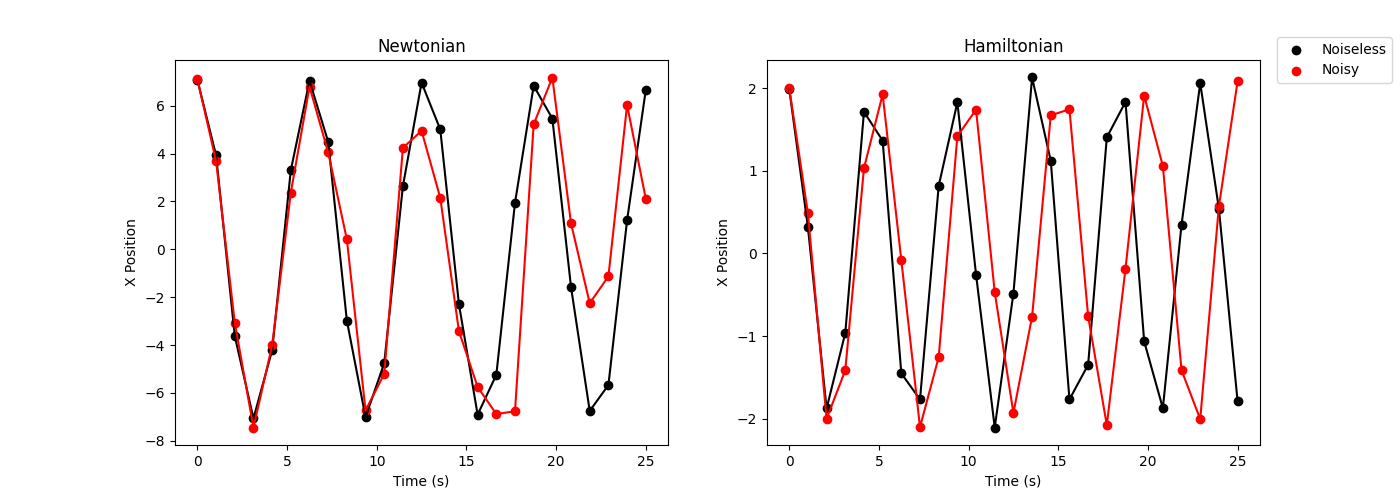
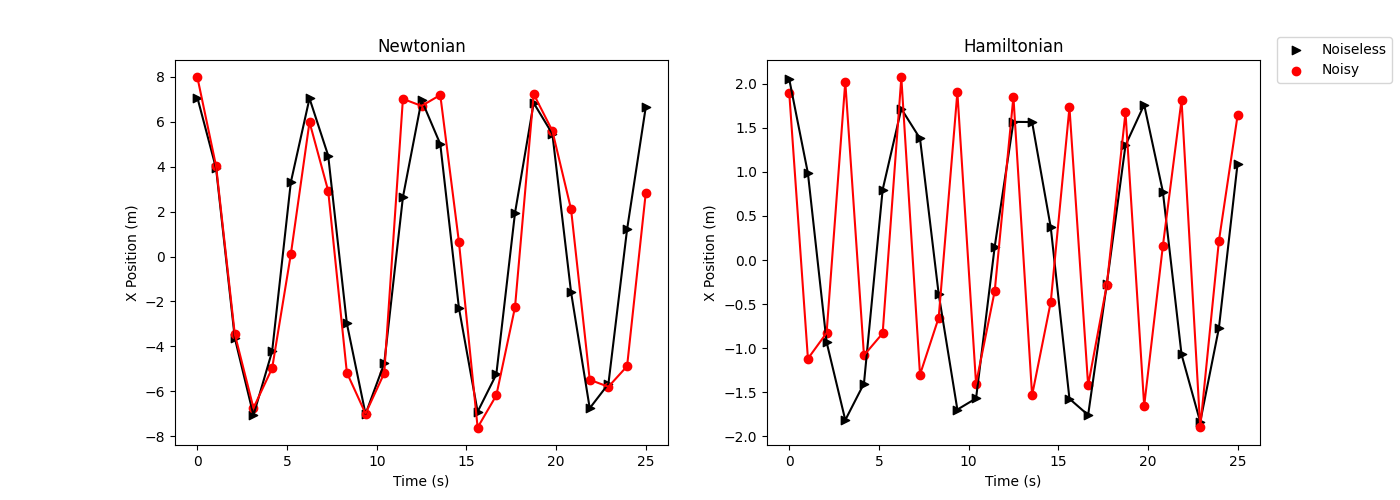
Review comments on figure captions

diff --git a/paper/figures/code/example_pendulums.py b/paper/figures/code/example_pendulums.py
@@ -26,7 +26,9 @@ pendulum = Pendulum(
 # Plot that against the time and with scatter and line options
 pendulum_noiseless = pendulum.create_object(time, noiseless=True)
 subplots[0].plot(time, pendulum_noiseless, color="black")
-subplots[0].scatter(time, pendulum_noiseless, color="black", label="Noiseless")
+subplots[0].scatter(
+    time, pendulum_noiseless, color="black", label="Noiseless", marker=">"
+)
 
 # Use the noiseless=False to do the same with a noiseless pendulum
 pendulum_noisy = pendulum.create_object(time, noiseless=False)
@@ -46,22 +48,22 @@ pendulum = HamiltonianPendulum(
     },
 )
 
-# Cacluate the pendulum positions and engeries
+# Calculate the pendulum positions and energies
 pendulum_data = pendulum.create_object(time)
 
 # Plot the line and scatterplot versions of the position wrt time
 subplots[1].plot(pendulum_data[4], pendulum_data[0], color="black")
 subplots[1].scatter(
-    pendulum_data[4], pendulum_data[0], color="black", label="Noiseless"
+    pendulum_data[4], pendulum_data[0], color="black", label="Noiseless", marker=">"
 )
 
-# Repeat the process with the noisely pendulum
+# Repeat the process with the noisy pendulum
 pendulum = HamiltonianPendulum(
     pendulum_arm_length=10.0,
     starting_angle_radians=np.pi / 4,
     acceleration_due_to_gravity=9.8,
     noise_std_percent={
-        "pendulum_arm_length": 0.2,
+        "pendulum_arm_length": 0.1,
         "starting_angle_radians": 0.0,
         "acceleration_due_to_gravity": 0.0,
     },
@@ -81,9 +83,9 @@ for plot in subplots.ravel():
     # plot.set(xticks=[], yticks=[])
 
     plot.set_xlabel("Time (s)")
-    plot.set_ylabel("X Position")
+    plot.set_ylabel("X Position (m)")
 
 # Assign legend location
 subplots[1].legend(loc="center left", bbox_to_anchor=(1.02, 1))
 
-plt.savefig("../pendulums.png")
+plt.savefig("./pendulums.png")

diff --git a/paper/figures/code/example_objects.py b/paper/figures/code/example_objects.py
@@ -1,5 +1,4 @@
 from deepbench.image import SkyImage, ShapeImage
-from deepbench.physics_object import HamiltonianPendulum, Pendulum
 import matplotlib.pyplot as plt
 import numpy as np
 

diff --git a/paper/paper.md b/paper/paper.md
@@ -10,11 +10,11 @@ authors:
   - name: M. Voetberg
     orcid: 0009-0005-2715-4709
     equal-contrib: true
-    affiliation: "1" 
-  - name: Ashia Livaudais 
+    affiliation: "1"
+  - name: Ashia Livaudais
     orcid: 0000-0003-3734-335X
     equal-contrib: true
-    affiliation: "1" 
+    affiliation: "1"
   - name: Becky Nevin
     orcid: 0000-0003-1056-8401
     equal-contrib: false
@@ -49,7 +49,7 @@ There are multiple open problems and issues that are critical for the machine le
 
 The physical sciences community lacks sufficient datasets and software as benchmarks for the development of statistical and machine learning models.  In particular, there currently does not exist simulation software that generates data underpinned by physical principles and that satisfies the following criteria:
 
-* multi-domain 
+* multi-domain
 * multi-purpose
 * fast
 * reproducible
@@ -60,13 +60,13 @@ The physical sciences community lacks sufficient datasets and software as benchm
 
 ## Related Work
 
-There are many benchmarks -- datasets and simulation software -- widely used for model building in machine learning, statistics, and the physical sciences. 
+There are many benchmarks -- datasets and simulation software -- widely used for model building in machine learning, statistics, and the physical sciences.
 First, benchmark datasets of natural images include MNIST `[@dengMnistDatabaseHandwritten2012c]`, CIFAR `[@krizhevskyCIFAR10CanadianInstitute2017a]`, Imagenet `[@russakovskyImageNetLargeScale2015a]`. Second, there are several large astronomical observation datasets -- CfA Redshift Survey `[@huchraSurveyGalaxyRedshifts1983]`, Sloan Digital Sky Survey `[@yorkSloanDigitalSky2000]`, and Dark Energy Survey `[@abbottDARKENERGYSURVEY]`. Third, many n-body cosmology simulation data sets serve as benchmarks -- e.g., Millennium `[@springelCosmologicalSimulationCode2005]`, Illustris `[@vogelsbergerIntroducingIllustrisProject2014b]`, EAGLE `[@schayeEAGLEProjectSimulating2015]`, Coyote `[@heitmannCoyoteUniversePrecision2010]`, Bolshoi `[@klypinDARKMATTERHALOS2011]`, CAMELS `[@villaescusa-navarroCAMELSProjectCosmology2021]`, Quijote `[@villaescusa-navarroQuijoteSimulations2020]`. Fourth, there have been multiple astronomy data set challenges that can be considered benchmarks for analysis comparison -- e.g., PLAsTiCC `[@hlozekResultsPhotometricLSST2020a]`, The Great08 Challenge `[@bridleHandbookGREAT08Challenge2009a]`, and the Strong Gravitational Lens Challenge `[@metcalfStrongGravitationalLens2019c]`.  Fifth, there are multiple software that generate simulated data for astronomy and cosmology -- e.g., astropy `[@theastropycollaborationAstropyCommunityPython2013a]`, galsim `[@roweGalSimModularGalaxy2015]`, lenstronomy `[@birrerLenstronomyMultipurposeGravitational2018a]`, deeplenstronomy `[@morganDeeplenstronomyDatasetSimulation2021a]`, CAMB `[@CAMBInfo, @lewisEfficientComputationCMB2000]`, Pixell `[@WelcomePixellDocumentation]`, SOXs `[@SOXSSimulatedObservations]`. Finally, particle physics projects use standard codebases for simulations -- e.g., GEANT `[@piaGeant4ScientificLiterature2009]`, GENIE `[@andreopoulosGENIENeutrinoMonte2015]`, and PYTHIA `[@sjostrandPYTHIAEventGenerator2020]`. These simulations span wide ranges in speed, code complexity, and physical fidelity and detail. Unfortunately, these data and software lack a combination of critical features, including mechanistic models, speed, reproducibility, which are needed for more fundamental studies of statistical and machine learning models. The work in this paper is most closely related to SHAPES `[@wuVisualQuestionAnswering2016a]` because that work also uses collections of geometric objects with varying levels of complexity as a benchmark.
 
 
 
 
-# DeepBench Software 
+# DeepBench Software
 
 The **DeepBench** software simulates data for analysis tasks that require precise numerical calculations. First, the simulation models are fundamentally mechanistic -- based on relatively simple analytic mathematical expressions, which are physically meaningful. This means that for each model, the number of input parameters that determine a simulation output is small (<$10$ for most models). These elements make the software fast and the outputs interpretable -- conceptually and mathematically relatable to the inputs. Second, **DeepBench** also includes methods to precisely prescribe noise for inputs, which are propagated to outputs. This permits studies and the development of statistical inference models that require uncertainty quantification, which is a significant challenge in modern machine learning research. Third, the software framework includes features that permit a high degree of reproducibility: e.g., random seeds at every key stage of input, a unique identification tag for each simulation run, tracking and storage of metadata (including input parameters) and the related outputs. Fourth, the primary user interface is a YAML configuration file, which allows the user to specify every aspect of the simulation -- e.g., types of objects, numbers of objects, noise type, and number of classes. This feature -- which is especially useful when building and studying complex models like deep learning neural networks -- permits the user to incrementally decrease or increase the complexity of the simulation with a high level of granularity.
 
@@ -83,25 +83,25 @@ The **DeepBench** software simulates data for analysis tasks that require precis
 * Readily extensible to new physics and outputs
 
 
-# Primary Modules 
+# Primary Modules
 
-* Geometry objects: two-dimensional images generated with `matplotlib` `[@hunterMatplotlib2DGraphics2007b]`. The shapes include $N$-sided polygons, arcs, straight lines, and ellipses. They are solid, filled or unfilled two-dimensional shapes with edges of variable thickness.  
-* Physics objects: one-dimensional profiles for two types of implementations of pendulum dynamics: one using Newtonian physics, the other using Hamiltonian. 
-* Astronomy objects: two-dimensional images generated based on radial profiles of typical astronomical objects. The star object is created using the Moffat distribution provided by the AstroPy `[@theastropycollaborationAstropyCommunityPython2013a]` library. The spiral galaxy object is created with the function used to produce a logarithmic spiral `[@ringermacherNewFormulaDescribing2009a]`. The elliptical Galaxy object is created using the Sérsic profile provided by the AstroPy library. Two-dimensional models are representations of astronomical objects commonly found in data sets used for galaxy morphology classification. 
-* Image: two-dimensional images  that are combinations and/or concatenations of Geometry or Astronomy objects. The combined images are within `matplotlib` meshgrid objects. Sky images are composed of any combination of Astronomy objects, while geometric images comprise individual geometric shape objects. 
-* Collection: Provides a framework for producing module images or objects at once and storing all parameters that were included in their generation, including exact noise levels, object hyper-parameters, and non-specified defaults. 
+* Geometry objects: two-dimensional images generated with `matplotlib` `[@hunterMatplotlib2DGraphics2007b]`. The shapes include $N$-sided polygons, arcs, straight lines, and ellipses. They are solid, filled or unfilled two-dimensional shapes with edges of variable thickness.
+* Physics objects: one-dimensional profiles for two types of implementations of pendulum dynamics: one using Newtonian physics, the other using Hamiltonian.
+* Astronomy objects: two-dimensional images generated based on radial profiles of typical astronomical objects. The star object is created using the Moffat distribution provided by the AstroPy `[@theastropycollaborationAstropyCommunityPython2013a]` library. The spiral galaxy object is created with the function used to produce a logarithmic spiral `[@ringermacherNewFormulaDescribing2009a]`. The elliptical Galaxy object is created using the Sérsic profile provided by the AstroPy library. Two-dimensional models are representations of astronomical objects commonly found in data sets used for galaxy morphology classification.
+* Image: two-dimensional images  that are combinations and/or concatenations of Geometry or Astronomy objects. The combined images are within `matplotlib` meshgrid objects. Sky images are composed of any combination of Astronomy objects, while geometric images comprise individual geometric shape objects.
+* Collection: Provides a framework for producing module images or objects at once and storing all parameters that were included in their generation, including exact noise levels, object hyper-parameters, and non-specified defaults.
 
 
 All objects also come with the option to add noise to each object. For Physics objects -- i.e., the pendulum -- the user may add Gaussian noise to parameters: initial angle $\theta_0$, the pendulum length $L$, the gravitational acceleration $g$, the planet properties $\Phi = (M/r^2)$, and Newton's gravity constant $G$. Note that $g = G * \Phi = G * M/r^2$: all parameters in that relationship can receive noise. For Astronomy and Geometry Objects, which are images, the user can add Poisson or Gaussian noise to the output images. Finally, the user can regenerate the same noise using the saved random seed.
 
 
-# Example Outputs 
+# Example Outputs
 
-![Example outputs of **DeepBench**, containing shapes, and astronomy objects. Variants include a single object, a noisy single object, two objects, and two noisy objects.](figures/example_objects.png)
+![Example outputs of **DeepBench**, containing geometric and astronomy objects. Variants include a single object, a noisy single object, two objects, and two noisy objects. The geometric outputs are produced with filled ellipses and outlined rectangles, with a gaussian noise overlay for the noisy variants. The astronomy outputs feature a star and an elliptical galaxy profile with similarly applied noise.](figures/example_objects.png)
 
-![Example physics simulations from **DeepBench**. Pendulums show noisy and non-noisy variants of the Newtonian (left) and Hamiltonian (right) mathematical simulations.](figures/pendulums.png)
+![Example physics simulations from **DeepBench**. Pendulums show noisy and noiseless variants of the Newtonian (left) and Hamiltonian (right) mathematical simulations. Both use initial conditions of an arm length of 10 meters and a starting angle of $\pi/4$. The noisy variants introduce uncertainty to these input parameters, along with the measurement of acceleration due to gravity.](figures/pendulums.png)
 
-# Acknowledgements
+# Acknowledgement
 
 *M. Voetberg*: conceptualization, methodology, software, writing, project administration. *Ashia Livaudais*: conceptualization, methodology, software, writing, project administration. *Becky Nevin*: software, project administration. *Omari Paul*: software. *Brian Nord*: conceptualization, methodology, project administration, funding acquisition, supervision, writing.
 
